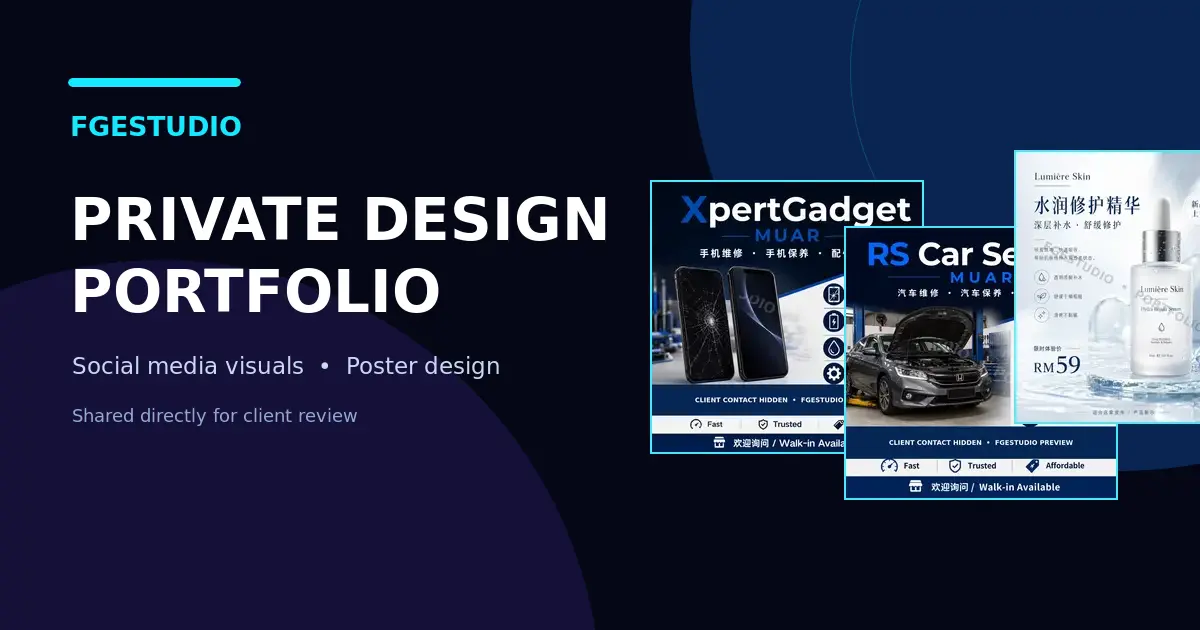
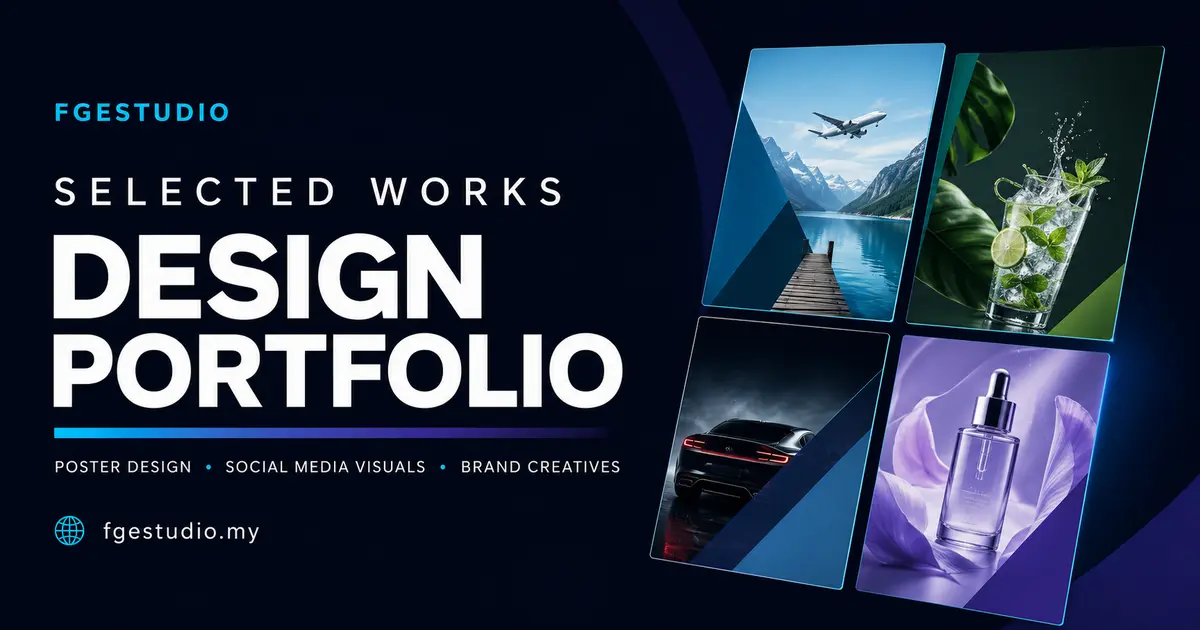
Refresh portfolio sharing cover

diff --git a/portfolio/index.html b/portfolio/index.html
@@ -22,7 +22,7 @@
     <meta property="og:site_name" content="FGESTUDIO" />
     <meta property="og:url" content="https://fgestudio.my/portfolio/" />
     <link rel="canonical" href="https://fgestudio.my/portfolio/" />
-    <meta property="og:image" content="https://fgestudio.my/works-2026/images/portfolio-preview.webp" />
+    <meta property="og:image" content="https://fgestudio.my/works-2026/images/portfolio-preview.webp?v=20260730" />
     <meta property="og:image:width" content="1200" />
     <meta property="og:image:height" content="630" />
     <meta property="og:image:alt" content="FGESTUDIO private design portfolio preview" />
@@ -32,7 +32,7 @@
       name="twitter:description"
       content="Selected social media visuals and promotional poster designs, shared directly for client review."
     />
-    <meta name="twitter:image" content="https://fgestudio.my/works-2026/images/portfolio-preview.webp" />
+    <meta name="twitter:image" content="https://fgestudio.my/works-2026/images/portfolio-preview.webp?v=20260730" />
     <link rel="icon" href="../favicon.ico" sizes="any" />
     <link rel="icon" type="image/png" sizes="48x48" href="../favicon-48x48.png" />
     <link rel="icon" type="image/png" sizes="96x96" href="../favicon-96x96.png" />
